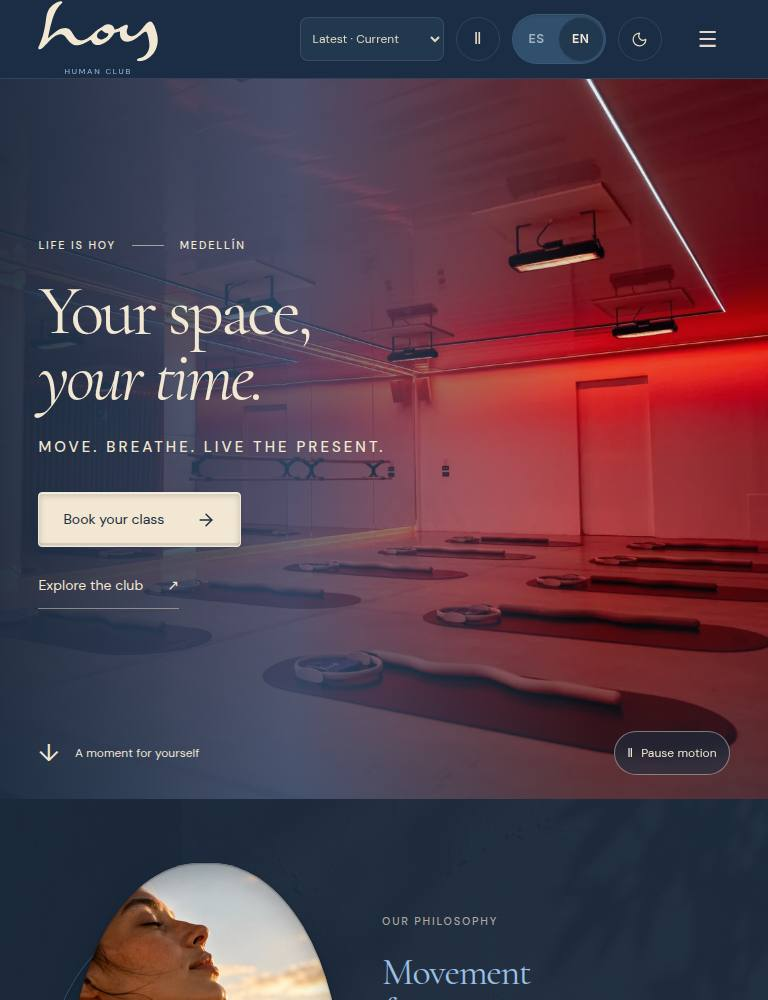
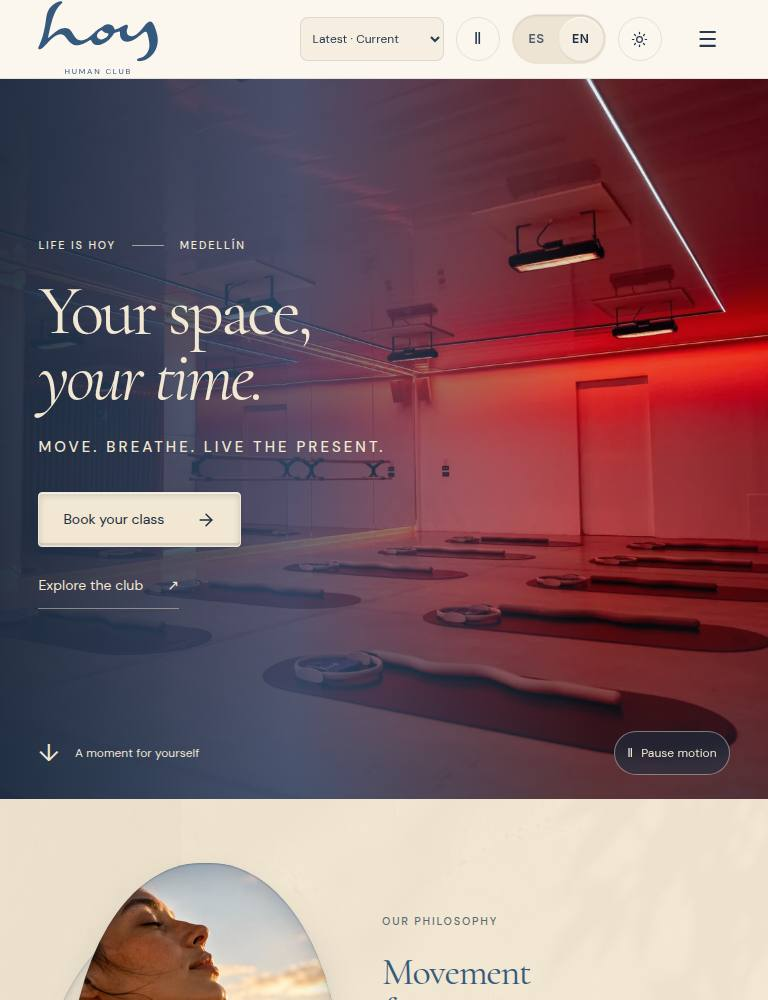
docs: save verified light-mode breakpoint captures
W-01 · 344/768/3840 English light images, 19-case report and before/after evidence

Changed region(s): [[0.0, 0.775, 1.0, 1.0], [0.0, 0.0, 1.0, 0.093]]

diff --git a/docs/changelog/0069-hero-light-capture-qa.md b/docs/changelog/0069-hero-light-capture-qa.md
@@ -9,6 +9,10 @@ files: shared-hero QA script, W-01 extra-width captures/report and documentation
 
 ## Verification
 
-The original 768 capture visibly used a dark header after the preceding matrix's final dark case. Hosted full-build and actual Chromium assertions must pass, and refreshed images must be inspected and SHA-checked before merge. Website runtime and content are unchanged.
+The original 768 capture visibly used a dark header after the preceding matrix's final dark case. The [hosted Photography QA](https://github.com/imagine-os/hoy/actions/runs/38819101830) passed the full build, fresh/cached clock checks, hub routes, 30 photo captures, all 19 language/theme-asserted hero cases and actual customer cache routing. All three regenerated images were inspected and SHA-checked before merge. Exact final-head QA remains required. Website behavior and content are unchanged; release-version metadata is bumped.
 
 **Resumen (ES).** Se corrige la evidencia de pruebas: las capturas de 344/768/3840 se toman y verifican en inglés y modo claro. No cambia el sitio del cliente.
+
+[Previous mislabeled dark tablet capture](https://github.com/imagine-os/hoy/blob/4f8577e38d558ce259344c6afb2bdfd63b2827ee/docs/screenshots/W-01/studio-latest-en-768.jpg)
+
+![Verified English light tablet capture](../screenshots/W-01/studio-latest-en-768.jpg)

diff --git a/docs/kanban.md b/docs/kanban.md
@@ -1,8 +1,8 @@
 # HoyOS kanban
 
-## In verification · 0069 (v0.24.5 · 2026-10-15)
+## Completed · 0069 (v0.24.5 · 2026-10-15)
 
-- W-01 QA: correct inherited dark-mode evidence at 344/768/3840; explicitly verify language/theme and refresh the light captures. Website runtime is unchanged. [Details](changelog/0069-hero-light-capture-qa.md)
+- W-01 QA: correct inherited dark-mode evidence at 344/768/3840; explicitly verify language/theme and refresh the light captures. Website behavior/content are unchanged. [Details](changelog/0069-hero-light-capture-qa.md)
 
 ## Completed · 0068 (v0.24.4 · 2026-10-15)
 
